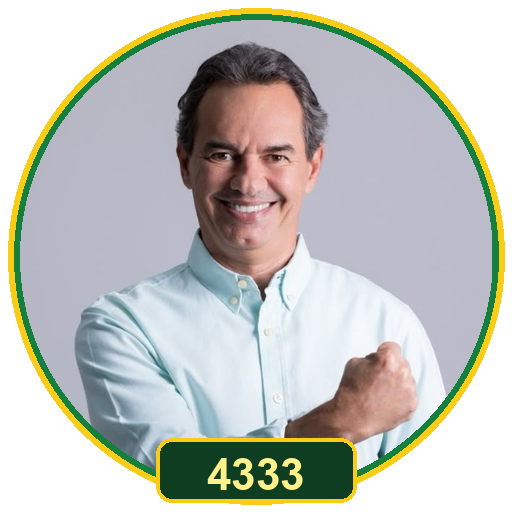
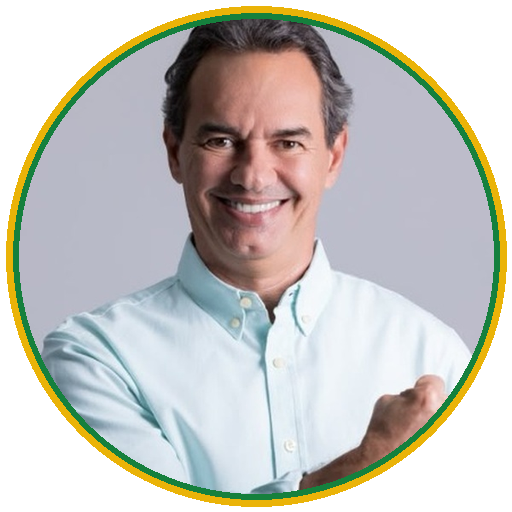
revert: restaurar layout limpo anterior da colinha sem textos extras e foto oficial sem badge (v39)

diff --git a/public/app.js b/public/app.js
@@ -245,22 +245,11 @@
               <span class="bar-y"></span>
               <span class="bar-b"></span>
             </div>
-            <div class="colinha-mockup-ordem-aviso">ORDEM OFICIAL DE VOTAÇÃO NA URNA</div>
           </div>
 
           <!-- As 6 Linhas com caixas numéricas -->
           <div class="colinha-mockup-rows-list">
             ${rowsHtml}
-          </div>
-
-          <!-- Card Cívico de Mobilização e Orientação no Rodapé -->
-          <div class="colinha-mockup-tse-card">
-            <div class="colinha-tse-stripe"></div>
-            <div class="colinha-tse-content">
-              <div class="colinha-tse-title">🗳 LEVE SUA COLINHA PARA A URNA!</div>
-              <div class="colinha-tse-text">Anotar os números no papel é permitido e recomendado pelo TSE.</div>
-              <div class="colinha-tse-sub">Confira a foto de cada candidato antes de apertar CONFIRMA.</div>
-            </div>
           </div>
 
           <!-- Rodapé Cívico com Marcas Oficiais -->
@@ -968,7 +957,6 @@
     const centerRightX = panelW + (W - panelW) / 2; // ~705px
 
     // 3.1 Cabeçalho Personalizado Oficial
-    // 3.1 Cabeçalho Personalizado Oficial
     const eleitorNome = getEleitorNome();
 
     if (eleitorNome) {
@@ -977,8 +965,8 @@
       ctx.textAlign = "center";
       const nomeCompletoTexto = `${eleitorNome} VOTA ASSIM`;
       ctx.fillStyle = "#15803d";
-      ctx.font = '900 42px "Outfit", sans-serif';
-      ctx.fillText(nomeCompletoTexto, centerRightX, 98);
+      ctx.font = '900 40px "Outfit", sans-serif';
+      ctx.fillText(nomeCompletoTexto, centerRightX, 115);
       ctx.restore();
     } else {
       // Slogan oficial quando não há nome
@@ -986,15 +974,15 @@
       ctx.textAlign = "center";
       ctx.fillStyle = "#0c2c62";
       ctx.font = '900 42px "Outfit", sans-serif';
-      ctx.fillText("VEM COM A GENTE", centerRightX, 98);
+      ctx.fillText("VEM COM A GENTE", centerRightX, 115);
       ctx.restore();
     }
 
     // Barra de cores cívicas centralizada abaixo do título
-    const barW = 260;
+    const barW = 240;
     const barH = 6;
     const barX = centerRightX - barW / 2;
-    const barY = 132;
+    const barY = 155;
     const segW = barW / 3;
 
     ctx.fillStyle = "#15803d"; // Verde
@@ -1004,15 +992,7 @@
     ctx.fillStyle = "#0284c7"; // Azul
     ctx.fillRect(barX + segW * 2, barY, segW, barH);
 
-    // Subtítulo cívico de orientação no topo
-    ctx.save();
-    ctx.textAlign = "center";
-    ctx.fillStyle = "#64748b";
-    ctx.font = '800 16px "Outfit", sans-serif';
-    ctx.fillText("ORDEM OFICIAL DE VOTAÇÃO NA URNA", centerRightX, 158);
-    ctx.restore();
-
-    // 3.2 As 6 Linhas de Votação Ampliadas com Badges Coloridas e Caixas Numéricas
+    // 3.2 As 6 Linhas de Votação com Badges Coloridas e Caixas Numéricas
     const ROW_COLORS = [
       { bg: "#15803d", text: "#ffffff" }, // 1: Verde (Marquinhos Trad)
       { bg: "#0284c7", text: "#ffffff" }, // 2: Azul/Ciano (Estadual)
@@ -1022,9 +1002,9 @@
       { bg: "#eab308", text: "#ffffff" }  // 6: Amarelo Ouro (Presidente)
     ];
 
-    const rowStartY = 192;
-    const rowH = 146;
-    const rowGap = 26;
+    const rowStartY = 210;
+    const rowH = 130;
+    const rowGap = 28;
 
     for (let i = 0; i < CARGOS_CONFIG.length; i++) {
       const cfg = CARGOS_CONFIG[i];
@@ -1033,34 +1013,34 @@
       const rowColor = ROW_COLORS[i];
 
       // Badge com Número da Ordem (1 a 6)
-      const badgeW = 56;
-      const badgeH = 104;
+      const badgeW = 54;
+      const badgeH = 92;
       const badgeX = rightX;
       const badgeY = y + (rowH - badgeH) / 2;
 
       ctx.fillStyle = rowColor.bg;
       ctx.beginPath();
-      ctx.roundRect(badgeX, badgeY, badgeW, badgeH, 10);
+      ctx.roundRect(badgeX, badgeY, badgeW, badgeH, 8);
       ctx.fill();
 
       ctx.textAlign = "center";
       ctx.textBaseline = "middle";
       ctx.fillStyle = rowColor.text;
-      ctx.font = '900 46px "Outfit", sans-serif';
+      ctx.font = '900 42px "Outfit", sans-serif';
       ctx.fillText(String(i + 1), badgeX + badgeW / 2, badgeY + badgeH / 2 + 1);
 
       // Caixas de Dígitos Brancas (Otimizadas para 5 dígitos e garantia de espaço para o nome)
       const digitsArr = cand && cand.nr ? String(cand.nr).split("") : [];
-      const boxW = cfg.digitos === 5 ? 48 : 56;
-      const boxH = 98;
+      const boxW = cfg.digitos === 5 ? 46 : 52;
+      const boxH = 88;
       const boxGap = cfg.digitos === 5 ? 6 : 8;
       const totalBoxesW = cfg.digitos * boxW + (cfg.digitos - 1) * boxGap;
       const boxesStartX = rightX + rightW - totalBoxesW;
       const boxY = y + (rowH - boxH) / 2;
 
       // Caixa das Informações do Candidato com Auto-Scaling Inteligente
-      const infoX = badgeX + badgeW + 16;
-      const maxTextW = Math.max(120, boxesStartX - infoX - 14);
+      const infoX = badgeX + badgeW + 14;
+      const maxTextW = Math.max(120, boxesStartX - infoX - 12);
 
       ctx.textAlign = "left";
       ctx.textBaseline = "top";
@@ -1068,7 +1048,7 @@
       if (cfg.id === "depFed") {
         // Auto-scaling para MARQUINHOS TRAD
         const nomeTexto = "MARQUINHOS TRAD";
-        let fontSizeNome = 36;
+        let fontSizeNome = 34;
         ctx.font = `950 ${fontSizeNome}px "Outfit", sans-serif`;
         while (ctx.measureText(nomeTexto).width > maxTextW && fontSizeNome > 18) {
           fontSizeNome -= 1;
@@ -1076,19 +1056,19 @@
         }
 
         ctx.fillStyle = "#15803d";
-        ctx.fillText(nomeTexto, infoX, y + 30);
+        ctx.fillText(nomeTexto, infoX, y + 26);
 
         ctx.fillStyle = "#15803d";
-        ctx.font = '800 22px "Outfit", sans-serif';
-        ctx.fillText("DEPUTADO FEDERAL", infoX, y + 84);
+        ctx.font = '800 20px "Outfit", sans-serif';
+        ctx.fillText("DEPUTADO FEDERAL", infoX, y + 74);
       } else {
         const candNome = cand && cand.urna ? cand.urna.toUpperCase() : "";
         const displayNome = candNome || "A DEFINIR";
 
         ctx.fillStyle = candNome ? "#0c2c62" : "#94a3b8";
 
-        // Auto-scaling inteligente de fonte (de 34px até 16px)
-        let fontSizeNome = 34;
+        // Auto-scaling inteligente de fonte (de 32px até 16px)
+        let fontSizeNome = 32;
         ctx.font = `900 ${fontSizeNome}px "Outfit", sans-serif`;
         let textMetrics = ctx.measureText(displayNome).width;
 
@@ -1105,17 +1085,17 @@
           const l1 = partes.slice(0, meio).join(" ");
           const l2 = partes.slice(meio).join(" ");
 
-          fontSizeNome = 22;
+          fontSizeNome = 20;
           ctx.font = `900 ${fontSizeNome}px "Outfit", sans-serif`;
           while ((ctx.measureText(l1).width > maxTextW || ctx.measureText(l2).width > maxTextW) && fontSizeNome > 13) {
             fontSizeNome -= 1;
             ctx.font = `900 ${fontSizeNome}px "Outfit", sans-serif`;
           }
 
-          ctx.fillText(l1, infoX, y + 20);
-          ctx.fillText(l2, infoX, y + 48);
+          ctx.fillText(l1, infoX, y + 16);
+          ctx.fillText(l2, infoX, y + 42);
         } else {
-          ctx.fillText(displayNome, infoX, y + 32);
+          ctx.fillText(displayNome, infoX, y + 28);
         }
 
         let cargoTitle = cfg.cargo.toUpperCase();
@@ -1123,8 +1103,8 @@
         else if (cfg.id === "sen2") cargoTitle = "SENADOR (2ª VAGA)";
 
         ctx.fillStyle = "#64748b";
-        ctx.font = '800 21px "Outfit", sans-serif';
-        ctx.fillText(cargoTitle, infoX, y + 84);
+        ctx.font = '800 19px "Outfit", sans-serif';
+        ctx.fillText(cargoTitle, infoX, y + 74);
       }
 
       for (let d = 0; d < cfg.digitos; d++) {
@@ -1143,53 +1123,14 @@
           ctx.textAlign = "center";
           ctx.textBaseline = "middle";
           ctx.fillStyle = "#000000";
-          ctx.font = cfg.digitos === 5 ? '950 48px "Outfit", sans-serif' : '950 54px "Outfit", sans-serif';
+          ctx.font = cfg.digitos === 5 ? '950 44px "Outfit", sans-serif' : '950 48px "Outfit", sans-serif';
           ctx.fillText(val, bx + boxW / 2, boxY + boxH / 2 + 2);
         }
       }
     }
 
-    // 3.3 CARD CÍVICO DE MOBILIZAÇÃO E ORIENTAÇÃO NO RODAPÉ (Aproveitamento Total da Área Útil)
-    const cardY = 1240;
-    const cardH = 145;
-    ctx.save();
-    // Fundo verde translúcido oficial com borda e cantos arredondados
-    ctx.fillStyle = "#f0fdf4";
-    ctx.strokeStyle = "#86efac";
-    ctx.lineWidth = 2;
-    ctx.beginPath();
-    ctx.roundRect(rightX, cardY, rightW, cardH, 16);
-    ctx.fill();
-    ctx.stroke();
-
-    // Destaque visual: faixa verde lateral no card
-    ctx.fillStyle = "#15803d";
-    ctx.beginPath();
-    ctx.roundRect(rightX, cardY, 8, cardH, [16, 0, 0, 16]);
-    ctx.fill();
-
-    // Textos de Orientação Eleitoral do TSE
-    ctx.textAlign = "left";
-    ctx.textBaseline = "top";
-    
-    // Título do Card
-    ctx.fillStyle = "#15803d";
-    ctx.font = '900 24px "Outfit", sans-serif';
-    ctx.fillText("🗳 LEVE SUA COLINHA PARA A URNA!", rightX + 26, cardY + 22);
-
-    // Mensagem de incentivo e direito do eleitor
-    ctx.fillStyle = "#1e293b";
-    ctx.font = '600 18.5px "Outfit", sans-serif';
-    ctx.fillText("Anotar os números no papel é permitido e recomendado pelo TSE.", rightX + 26, cardY + 60);
-
-    // Slogan de confirmação
-    ctx.fillStyle = "#0c2c62";
-    ctx.font = '800 18px "Outfit", sans-serif';
-    ctx.fillText("Confira a foto de cada candidato antes de apertar CONFIRMA.", rightX + 26, cardY + 95);
-    ctx.restore();
-
     // 4. RODAPÉ CÍVICO ELEIÇÕES 2026 COM LINHAS CÍVICAS
-    const footerY = H - 65;
+    const footerY = H - 75;
     ctx.textAlign = "left";
     ctx.textBaseline = "middle";
     ctx.fillStyle = "#0c2c62";

diff --git a/public/styles.css b/public/styles.css
@@ -3422,65 +3422,6 @@ body {
   color: #0c2c62;
 }
 
-/* Subtítulo Cívico da Ordem Oficial no Topo */
-.colinha-mockup-ordem-aviso {
-  font-family: var(--font-display);
-  font-size: 9px;
-  font-weight: 800;
-  color: #64748b;
-  letter-spacing: 0.5px;
-  text-transform: uppercase;
-  margin-top: 2px;
-}
-
-/* Card Cívico de Mobilização e Orientação no Rodapé da Colinha */
-.colinha-mockup-tse-card {
-  display: flex;
-  align-items: stretch;
-  background: #f0fdf4;
-  border: 1.5px solid #86efac;
-  border-radius: 8px;
-  margin: 6px 0 8px;
-  overflow: hidden;
-  box-shadow: 0 1px 4px rgba(21, 128, 61, 0.08);
-}
-
-.colinha-tse-stripe {
-  width: 5px;
-  background: #15803d;
-  flex-shrink: 0;
-}
-
-.colinha-tse-content {
-  padding: 6px 8px;
-  display: flex;
-  flex-direction: column;
-  gap: 2px;
-  text-align: left;
-}
-
-.colinha-tse-title {
-  font-family: var(--font-display);
-  font-size: 10px;
-  font-weight: 900;
-  color: #15803d;
-  letter-spacing: 0.2px;
-}
-
-.colinha-tse-text {
-  font-size: 8.5px;
-  color: #1e293b;
-  font-weight: 600;
-  line-height: 1.15;
-}
-
-.colinha-tse-sub {
-  font-size: 8px;
-  color: #0c2c62;
-  font-weight: 800;
-  line-height: 1.15;
-}
-
 /* Responsividade Fina para Telas Pequenas de Celular */
 @media (max-width: 520px) {
   .colinha-mockup-card-container {

diff --git a/public/index.html b/public/index.html
@@ -81,12 +81,12 @@
           </div>
         </div>
 
-        <!-- Bloco de Destaque: Avatar Dourado com Marquinhos e Badge 4333 -->
+        <!-- Bloco de Destaque: Avatar Oficial Marquinhos (Sem o badge duplicado) -->
         <div class="welcome-ref-hero">
           <div class="welcome-ref-avatar-box">
             <picture>
-              <source srcset="welcome_marquinhos_hero.webp?v=38" type="image/webp">
-              <img src="welcome_marquinhos_hero.png?v=38" alt="Marquinhos Trad 4333" class="welcome-ref-avatar-img">
+              <source srcset="welcome_marquinhos_hero.webp?v=39" type="image/webp">
+              <img src="welcome_marquinhos_hero.png?v=39" alt="Marquinhos Trad Deputado Federal" class="welcome-ref-avatar-img">
             </picture>
           </div>
         </div>

diff --git a/public/sw.js b/public/sw.js
@@ -4,7 +4,7 @@
  * e Cache-First para assets estáticos e fotos.
  */
 
-const CACHE_NAME = 'minha-colinha-v38';
+const CACHE_NAME = 'minha-colinha-v39';
 
 // Pré-cache vital enxuto: apenas o núcleo da aplicação (instalação imediata sem travar)
 const CORE_ASSETS = [
